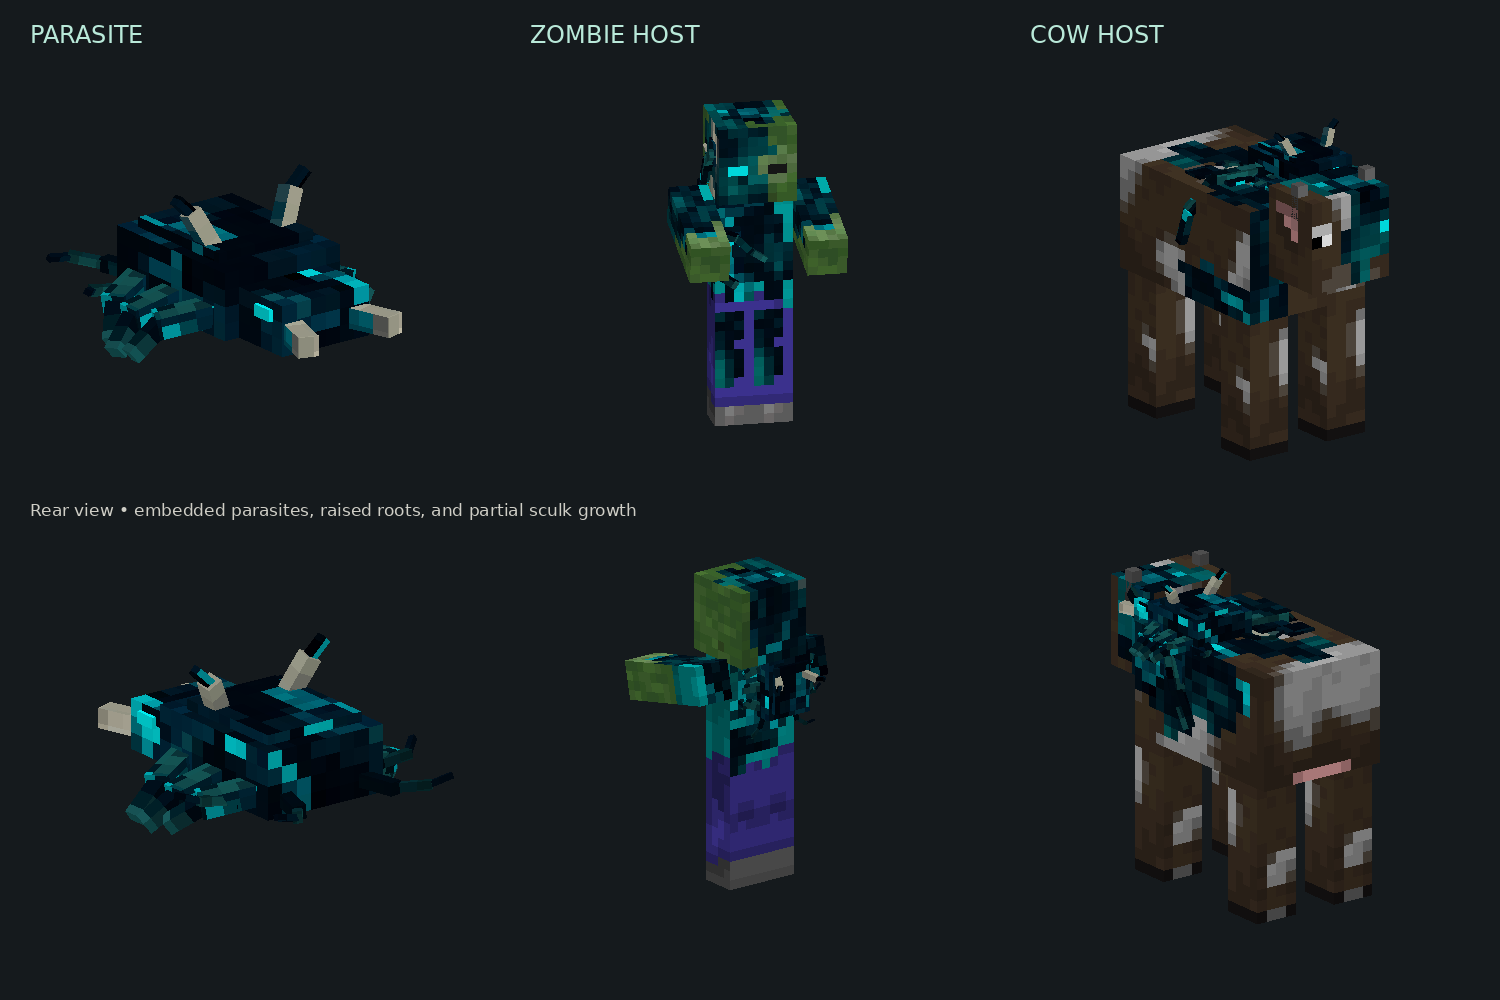
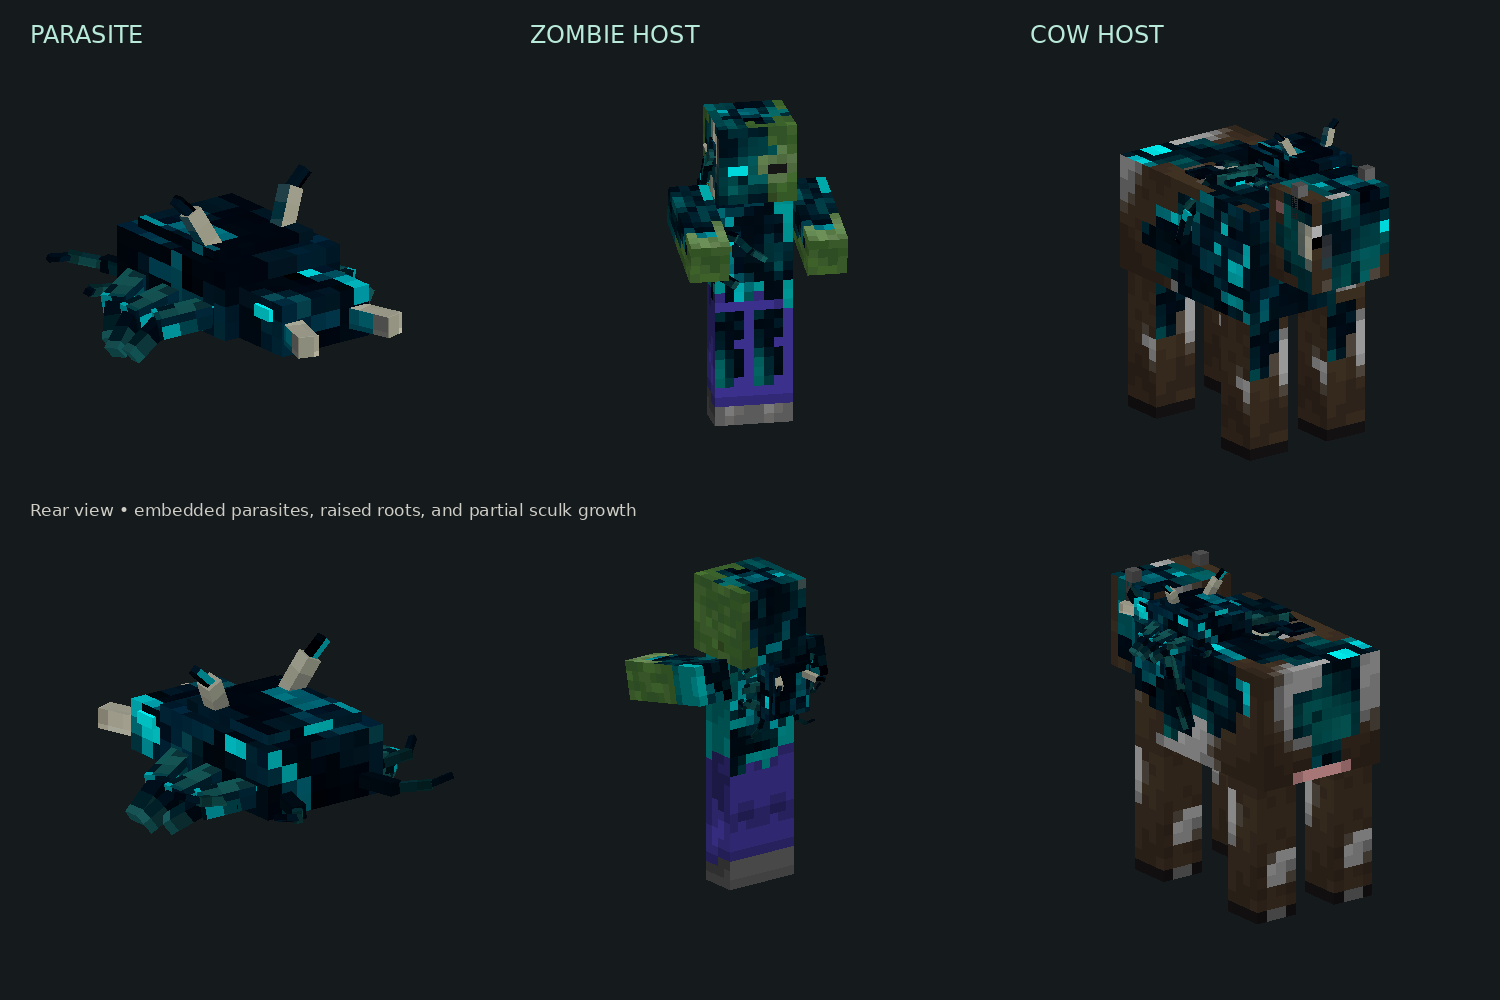
Spread cow sculk growth across both flanks, face, and upper legs

Changed region(s): [[0.736, 0.124, 0.92, 0.403], [0.828, 0.62, 0.92, 0.775]]

diff --git a/README.md b/README.md
@@ -110,7 +110,7 @@ infected cow attack. `/locate biome minecraft:deep_dark` and
 
 Infected hosts keep their native skins beneath patches of sculk. Growth spreads
 from a zombie's shoulder across part of the face, shirt, and upper legs, or along
-a cow's spine, flanks, and temple. One eye turns cyan while the other stays normal. Raised
+a cow's spine, both flanks, face, and upper legs. One eye turns cyan while the other stays normal. Raised
 roots and small sculk plates join these patches to the parasite embedded in the
 host. Most skin, clothing, coat markings, and legs remain visible.
 
